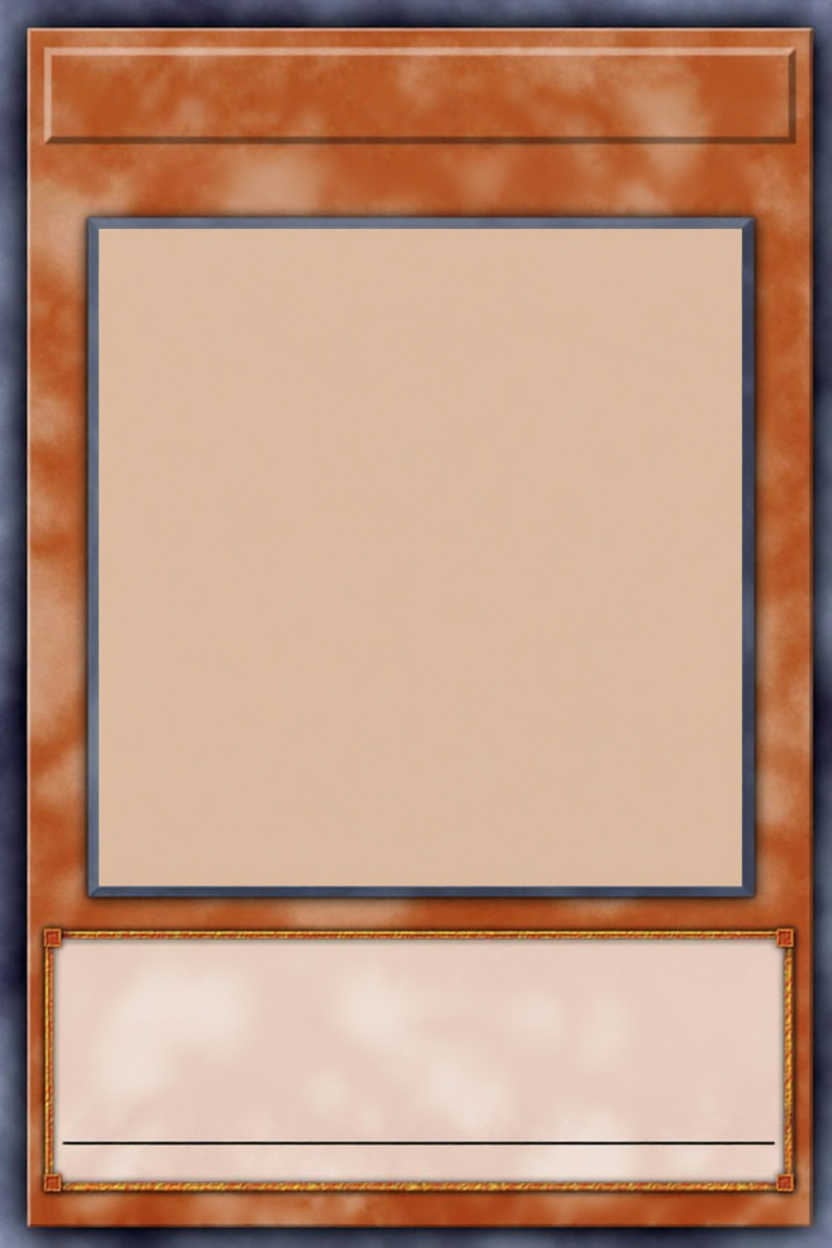
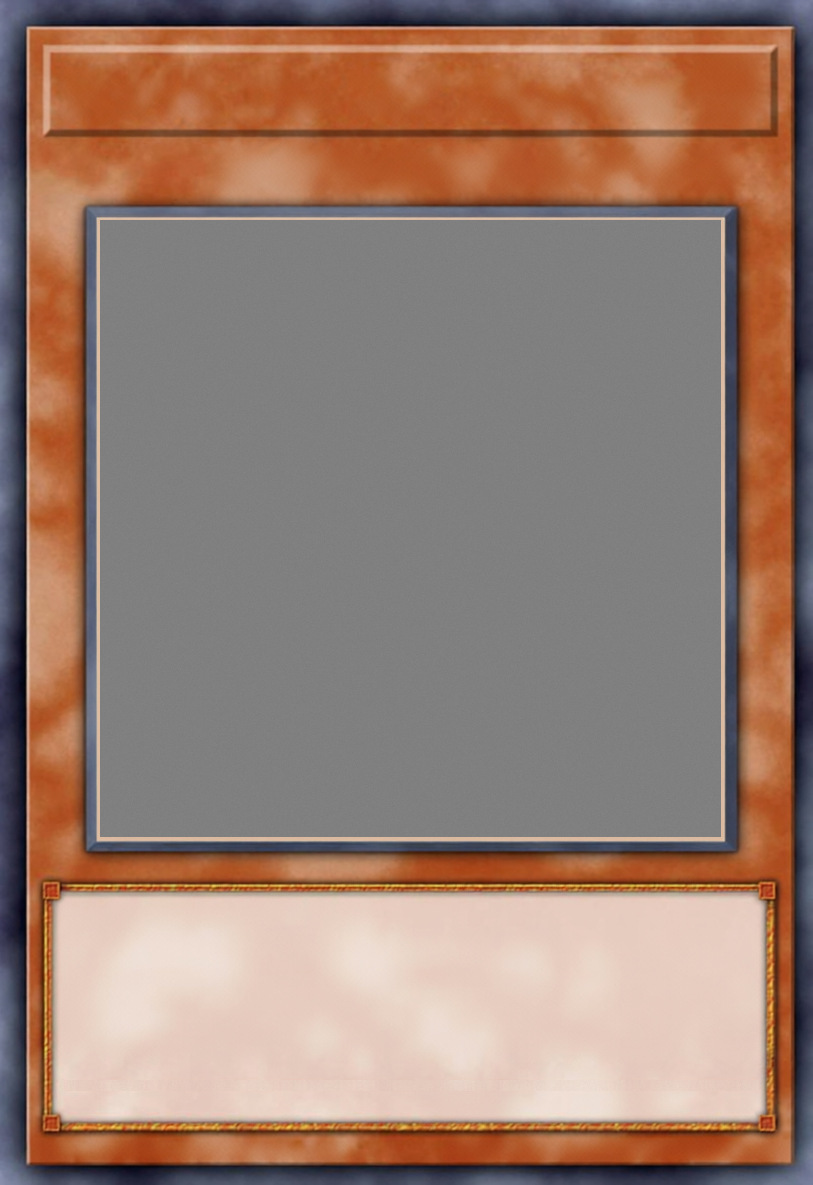
carta perfeita: molduras limpas 813x1185 + preview fonte unica + molde+jogo+testes espelhados

diff --git a/astralis-studio/src/lib/components/CardPreview.svelte b/astralis-studio/src/lib/components/CardPreview.svelte
@@ -3,21 +3,15 @@
   // FUNDO = uma das 6 molduras JPG (static/frames/), escolhida pelo dado da
   // carta (ver escolherMoldura em cardMeta): Normal/Effect/Fusion/Ritual/
   // Spell/Trap. Proporção 813/1185 = 0,6861 (original 59x86).
-  // Os campos ficam SOBRE os espaços da imagem, nas posições do `molde`
-  // (mesma fusão do jogo: peça ausente = default; sem molde = tudo default).
-  // Default = scan das refs D23 (Normal-card Dark Magician + Spell-card
-  // Messenger, 813x1185): nome 4,0/2,8/81x4,4 fs38; orbe x85/2,8 d9,2%L
-  // (w90 h62 quadrado); estrelas y11,2 h4,2 d~4,7%L fs32; arte 9,5/16,8/
-  // 81x55,6 quadrada; texto 5,5/73,5/89x21,5 fs19; tipo fs22; atk y91,5 h2,5
-  // fs24 à direita abaixo do filete; rodapé 3,5/96/93x2,5 fs11. Magia/
-  // armadilha sem selo impresso no frame → orbe SPELL/TRAP + faixa
-  // "[SPELL CARD ∞]" / "[TRAP CARD ∞]" centralizada na fileira das estrelas.
-  // Aba Molde continua valendo (D36): o dado manda — a correção abaixo é só
-  // o default quando a peça falta; peça presente no molde vence.
+  // Os campos ficam SOBRE os espaços da imagem, nas posições de MEDIDAS
+  // (única fonte de medida: scan a pixel das molduras limpas 813x1185 +
+  // refs Normal-card Dark Magician e Spell-card Messenger — ver tabela).
+  // O molde (aba Molde / D36) continua vencendo quando a peça existir:
+  // peça presente no molde sobrepõe o default; peça ausente = MEDIDAS puras.
+  // Não há mais camada de correção por cima do default.
   // Preview PURO: não valida, não salva, não mexe em regra.
   import AssetDrop from "$lib/components/AssetDrop.svelte";
   import { attrName, frameSrc, linhaTipo, escolherMoldura, FRAME_LABELS, attributeIcon, STAR_IMG } from "$lib/cardMeta";
-  import MOLDE_OFICIAL from "../../../../schemas/examples/layouts/card_layout_monster_default.json";
   import type { Molde } from "$lib/stores/layout.svelte";
 
   let {
@@ -95,43 +89,44 @@
 
   let estrelas = $derived(Math.min(12, Math.max(1, Math.floor(Number(nivel) || 1))));
 
-  // ---- MOLDE (D23/D36): posição/tamanho/fonte/cor vêm do dado, não de
-  // número fixo. Peça ausente no molde = default do scan das refs 813x1185
-  // (CORRECAO abaixo, que ajusta o MOLDE_OFICIAL ainda com medidas do scan
-  // antigo); peça presente no molde (aba Molde / projects) vence a correção.
-  // Sem molde = tudo default corrigido = visual fiel às refs.
-  // Conversões por-mil → tela: x/y/w/h em % do próprio eixo (÷10); font_size
-  // em ‰ da ALTURA → cqw (1% da largura): cqw = fs × 1185 ÷ 8130 (nome 38→5,54).
+  // ---- MEDIDAS (única fonte do default): scan a pixel das molduras limpas
+  // 813x1185 (normal/spell/trap conferidos — geometria igual, desvio <2px)
+  // + refs Normal-card (orbe/estrelas/ATK) e Spell-card (faixa). x/w em ‰ da
+  // LARGURA (÷10 = %), y/h em ‰ da ALTURA, font_size em ‰ da ALTURA.
+  // Placa título x26-794 y25-136 (texto dentro, até x664 p/ não invadir o
+  // orbe); orbe ref x677-754 y52-128 (d~77px, só existe na ref — o frame
+  // limpo não traz círculo); fileira y140-204 (7 estrelas ref x368-727 à
+  // direita, d~40px; faixa magia centralizada na mesma fileira); arte cinza
+  // útil x100-720 y220-836 (620x617, área DENTRO da borda azul); creme útil
+  // x60-759 y899-1115 (dentro da borda laranja); tipo no topo do creme
+  // y907; filete ATK ref y1078, texto y1080-1102 à direita até x753; rodapé
+  // y1140-1170 (fundo bege entre creme e borda do cartão).
+  // Conversão font_size ‰ → cqw (1% da largura): cqw = fs × 1185 ÷ 8130
+  // (nome 38→5,54 = 45px; estrela 32→4,67 = 38px; texto 19→2,77 = 22px).
   type RectMolde = { x: number; y: number; w: number; h: number };
   type EstiloMolde = { font_size?: number; bold?: boolean; color?: string; align?: string; z?: number };
-  // Medidas % das refs (813x1185) → por-mil: barra título y2,8 h4,4 x4,0 w81
-  // fs38; orbe x85 y2,8 w90 h62 (= quadrado 75px); estrelas y11,2 h4,2 d4,7%L
-  // fs32; arte x9,5 y16,8 w81 h55,6 (quadrada 659px); texto x5,5 y73,5 w89
-  // h21,5 fs19; tipo fs22; atk y91,5 h2,5 fs24; rodapé y96 h2,5 fs11.
-  const CORRECAO: Record<string, { rect?: Partial<RectMolde>; style?: EstiloMolde }> = {
-    name: { rect: { x: 40, y: 28, w: 810, h: 44 }, style: { font_size: 38, bold: true, align: "left", z: 5 } },
-    attribute_orb: { rect: { x: 850, y: 28, w: 90, h: 62 }, style: { z: 6 } },
-    level_stars: { rect: { x: 35, y: 112, w: 885, h: 42 }, style: { font_size: 32, bold: false, align: "right", z: 5 } },
-    art_window: { rect: { x: 95, y: 168, w: 810, h: 556 }, style: { z: 4 } },
-    type_line: { rect: { x: 95, y: 748, w: 810, h: 30 }, style: { font_size: 22, bold: true, align: "left", z: 5 } },
-    text_box: { rect: { x: 55, y: 735, w: 890, h: 215 }, style: { font_size: 19, bold: false, align: "left", z: 3 } },
-    atkdef_bar: { rect: { x: 95, y: 915, w: 810, h: 25 }, style: { font_size: 24, bold: true, align: "right", z: 5 } },
-    footer: { rect: { x: 35, y: 960, w: 930, h: 25 }, style: { font_size: 11, bold: false, align: "left", z: 5 } },
+  const MEDIDAS: Record<string, { rect: RectMolde; style: EstiloMolde }> = {
+    name: { rect: { x: 54, y: 27, w: 763, h: 78 }, style: { font_size: 38, bold: true, align: "left", z: 5 } },
+    attribute_orb: { rect: { x: 833, y: 44, w: 95, h: 65 }, style: { z: 6 } },
+    level_stars: { rect: { x: 34, y: 118, w: 886, h: 54 }, style: { font_size: 32, bold: false, align: "right", z: 5 } },
+    art_window: { rect: { x: 123, y: 186, w: 764, h: 521 }, style: { z: 4 } },
+    type_line: { rect: { x: 91, y: 765, w: 827, h: 27 }, style: { font_size: 22, bold: true, align: "left", z: 5 } },
+    text_box: { rect: { x: 74, y: 759, w: 861, h: 183 }, style: { font_size: 19, bold: false, align: "left", z: 3 } },
+    atkdef_bar: { rect: { x: 91, y: 911, w: 836, h: 20 }, style: { font_size: 24, bold: true, align: "right", z: 5 } },
+    footer: { rect: { x: 34, y: 962, w: 931, h: 25 }, style: { font_size: 11, bold: false, align: "left", z: 5 } },
   };
+  // Fusão em 2 camadas: default = MEDIDAS; peça presente no molde (aba Molde
+  // / projects, D36) vence por campo. Sem molde = tudo MEDIDAS = fiel às refs.
   function pecaMolde(kind: string): { rect: RectMolde; style: EstiloMolde } {
-    const base = ((MOLDE_OFICIAL as unknown as Molde).pieces ?? []).find((p) => p.kind === kind) ?? {};
-    const fix = CORRECAO[kind] ?? {};
+    const def = MEDIDAS[kind] ?? { rect: { x: 0, y: 0, w: 0, h: 0 }, style: {} };
     const over = ((molde as Molde | null)?.pieces ?? []).find((p) => p.kind === kind) ?? {};
     return {
       rect: {
-        x: 0, y: 0, w: 0, h: 0,
-        ...((base as { rect?: object }).rect ?? {}),
-        ...(fix.rect ?? {}),
+        ...def.rect,
         ...((over as { rect?: object }).rect ?? {}),
       } as RectMolde,
       style: {
-        ...((base as { style?: object }).style ?? {}),
-        ...(fix.style ?? {}),
+        ...def.style,
         ...((over as { style?: object }).style ?? {}),
       } as EstiloMolde,
     };
@@ -149,13 +144,13 @@
     typeof s.font_size === "number" ? (s.font_size * 1185) / 8130 : padrao;
   const negrito = (s: EstiloMolde, padrao: boolean) =>
     typeof s.bold === "boolean" ? s.bold : padrao;
-  // Cor do nome: molde manda, mas o default do scan antigo é escuro — nas
-  // molduras escuras (magia/equip/armadilha) a ref é branca. Sem cor própria
-  // no molde, usa branco nelas e marrom-escuro nos monstros.
+  // Cor do nome: molde manda; sem cor no molde nem no default, usa branco
+  // nas molduras escuras (magia/equip/armadilha, ref Messenger) e
+  // marrom-escuro nos monstros (ref Dark Magician).
   function corNome(s: EstiloMolde): string {
     const doMolde = ((molde as Molde | null)?.pieces ?? []).find((p) => p.kind === "name")?.style?.color;
     if (typeof doMolde === "string" && doMolde) return doMolde;
-    if (typeof s.color === "string" && s.color.toLowerCase() !== "#2a1c08") return s.color;
+    if (typeof s.color === "string" && s.color) return s.color;
     return nomeClaro ? "#ffffff" : "#2a1c08";
   }
   const corTxt = (s: EstiloMolde, padrao: string) =>
@@ -189,9 +184,9 @@
   >
     <img src={molduraSrc} alt="" aria-hidden="true" class="absolute inset-0 w-full h-full" style="object-fit: fill;" />
     <div class="absolute inset-0">
-      <!-- Nome sobre a placa (só texto; a placa é da imagem). Ref: y2,8 h4,4
-           x4,0 w81 — termina onde o orbe começa (x85), sem texto embaixo dele.
-           Monstro = preto; magia/armadilha = branco (refs). -->
+      <!-- Nome sobre a placa (só texto; a placa é da imagem). MEDIDAS: placa
+           x26-794 y25-136, texto até x664 (não invade o orbe, que começa
+           em x677). Monstro = preto; magia/armadilha = branco (refs). -->
       <div class="absolute" style="left: {pc(pNome.rect.x)}; top: {pc(pNome.rect.y)}; width: {pc(pNome.rect.w)}; height: {pc(pNome.rect.h)};">
         <div
           class="w-full h-full overflow-hidden flex items-center"
@@ -205,8 +200,10 @@
         </div>
       </div>
 
-      <!-- Orbe: PNG com kanji (static/attributes/). Ref: x85 y2,8 d9,2%L
-           (quadrado). Monstro = atributo; magia = SPELL; armadilha = TRAP. -->
+      <!-- Orbe: PNG com kanji (static/attributes/). MEDIDAS da ref: x677-754
+           y52-128 (d~77px, quadrado). Monstro = atributo; magia = SPELL;
+           armadilha = TRAP. O frame limpo não traz círculo — o overlay é o
+           selo, igual à ref Messenger of Peace. -->
       {#if mostrarOrbe && iconeAtributo}
       <div
         class="absolute"
@@ -218,8 +215,9 @@
       {/if}
 
       <!-- Estrelas = level (monstro/ritual, à direita — ref Dark Magician com
-           7). Magia/armadilha: faixa "[SPELL CARD ∞]" / "[TRAP CARD ∞]"
-           centralizada na mesma fileira (ref Messenger, y11,2 h4,2). -->
+           7, x368-727, d~40px). Magia/armadilha: faixa "[SPELL CARD ∞]" /
+           "[TRAP CARD ∞]" centralizada na mesma fileira y140-204
+           (ref Messenger). O frame limpo traz o vão vazio. -->
       {#if mostrarEstrelas}
       <div class="absolute flex items-center" style="left: {pc(pEstrelas.rect.x)}; right: {(1000 - pEstrelas.rect.x - pEstrelas.rect.w) / 10}%; top: {pc(pEstrelas.rect.y)}; height: {pc(pEstrelas.rect.h)}; gap: 0.8cqw; justify-content: {just(pEstrelas.style, 'right')};" title="Nível {estrelas}">
         {#each Array(estrelas) as _, i (i)}
@@ -289,7 +287,7 @@
         </div>
       </div>
 
-      <!-- Rodapé minúsculo (ref: y96 h2,5): id à esquerda + © à direita. -->
+      <!-- Rodapé minúsculo (MEDIDAS y1140 h30): id à esquerda + © à direita. -->
       <div class="absolute flex items-center justify-between" style="left: {pc(pRodape.rect.x)}; right: {(1000 - pRodape.rect.x - pRodape.rect.w) / 10}%; top: {pc(pRodape.rect.y)}; height: {pc(pRodape.rect.h)};">
         <p class="truncate" style="font-size: {fsCqw(pRodape.style, 1.6)}cqw; font-family: ui-monospace, monospace; color: {corTxt(pRodape.style, '#ffffff')}cc;" title={idCarta}>{idCarta || "···"}</p>
         <p style="font-size: {fsCqw(pRodape.style, 1.6)}cqw; color: {corTxt(pRodape.style, '#ffffff')}99; white-space: nowrap;">© ASTRALIS</p>

diff --git a/astralis-studio/src-tauri/src/main.rs b/astralis-studio/src-tauri/src/main.rs
@@ -4761,7 +4761,7 @@ mod testes {
         assert!(!base.join("layouts").join(MOLDE_ARQUIVO).exists(), "molde customizado devia ter sido apagado");
         assert!(base.join("layouts").is_dir(), "pasta layouts/ devia continuar de pé");
         let de_volta = ler_molde_de(&base).expect("ler pós-boot");
-        assert_eq!(de_volta["pieces"].as_array().unwrap()[0]["rect"]["x"], serde_json::json!(40), "pós-boot o ler devia voltar ao oficial");
+        assert_eq!(de_volta["pieces"].as_array().unwrap()[0]["rect"]["x"], serde_json::json!(54), "pós-boot o ler devia voltar ao oficial");
         let _ = std::fs::remove_dir_all(&base);
     }
 
